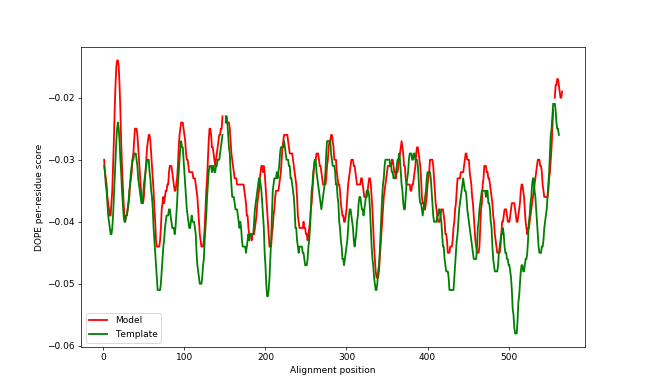
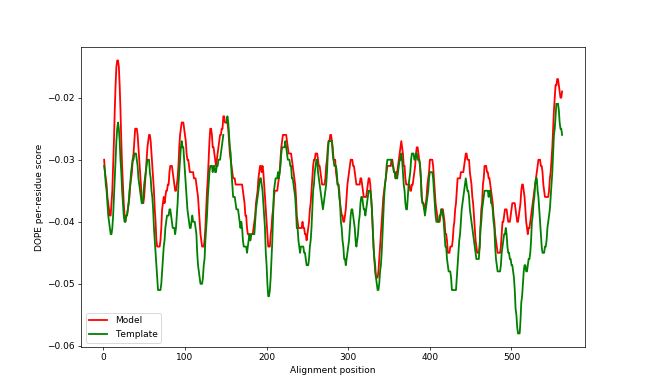
bug fix

diff --git a/exemplo_genmodel/menor_energia/plot_profile.py b/exemplo_genmodel/menor_energia/plot_profile.py
@@ -31,7 +31,7 @@ e = modeller.Environ()
 a = modeller.Alignment(e, file='model-seq.ali')
 
 template = get_profile('reference.profile', a['model'])
-model = get_profile('model.profile', a['model'])
+model = get_profile('model.profile', a['seq'])
 
 # Plot the template and model profiles in the same plot for comparison:
 pylab.figure(1, figsize=(10,6))
